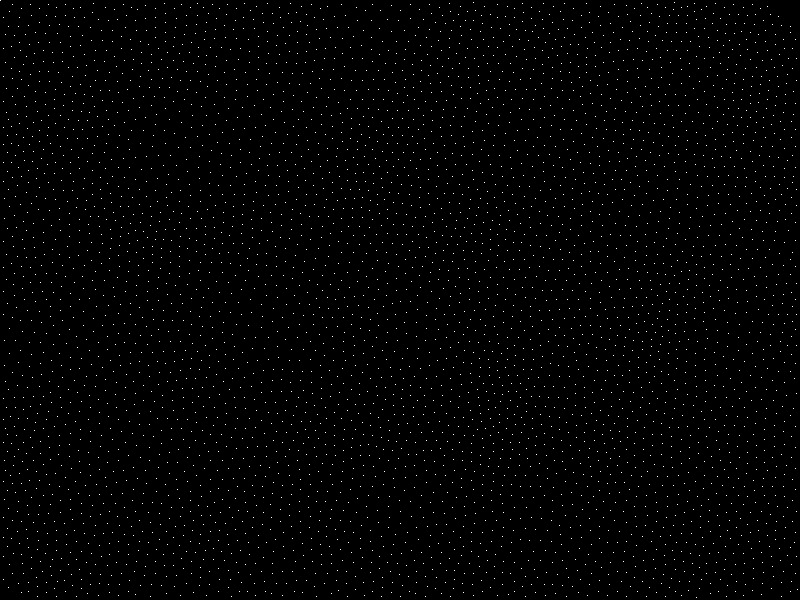
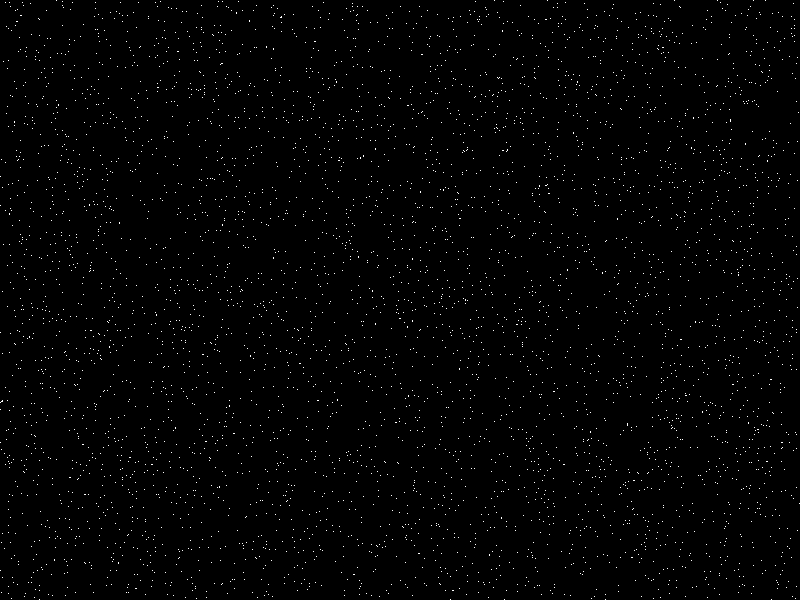
make silktone.py executable and save an image

diff --git a/silktone.py b/silktone.py
@@ -48,24 +48,23 @@ def stochastic_dot_screen(width=800, height=600, coverage=0.01, relaxation=20):
 
     return screen[np.lexsort(screen.T[::-1])]
 
-screen = stochastic_dot_screen()
 
-def screen_as_image(screen, shape):
-    '''
-    Returns an image to visualize the stochastic dot screen.
-
-    Parameters:
-        screen (numpy.ndarray): array containing all points
-        shape (tuple): (width, height) in pixels
-
-    Returns:
-        image
-    '''
+if __name__ == "__main__":
+    
+    screen = stochastic_dot_screen()
+    shape = (800, 600)
+    path = "./img/test.png"
 
     image = Image.new('1', shape, color=0)
     draw = ImageDraw.Draw(image)
+    count = 0
     
     for dot in screen:
-        draw.point(dot, fill=1)
+        print('\r', int(count / 4800 * 100), '%', end='')
+        draw.point(tuple(dot), fill=1)
+        count += 1
+    print('\r100')
+        
+    image.save(path)
 
-    return image
+
